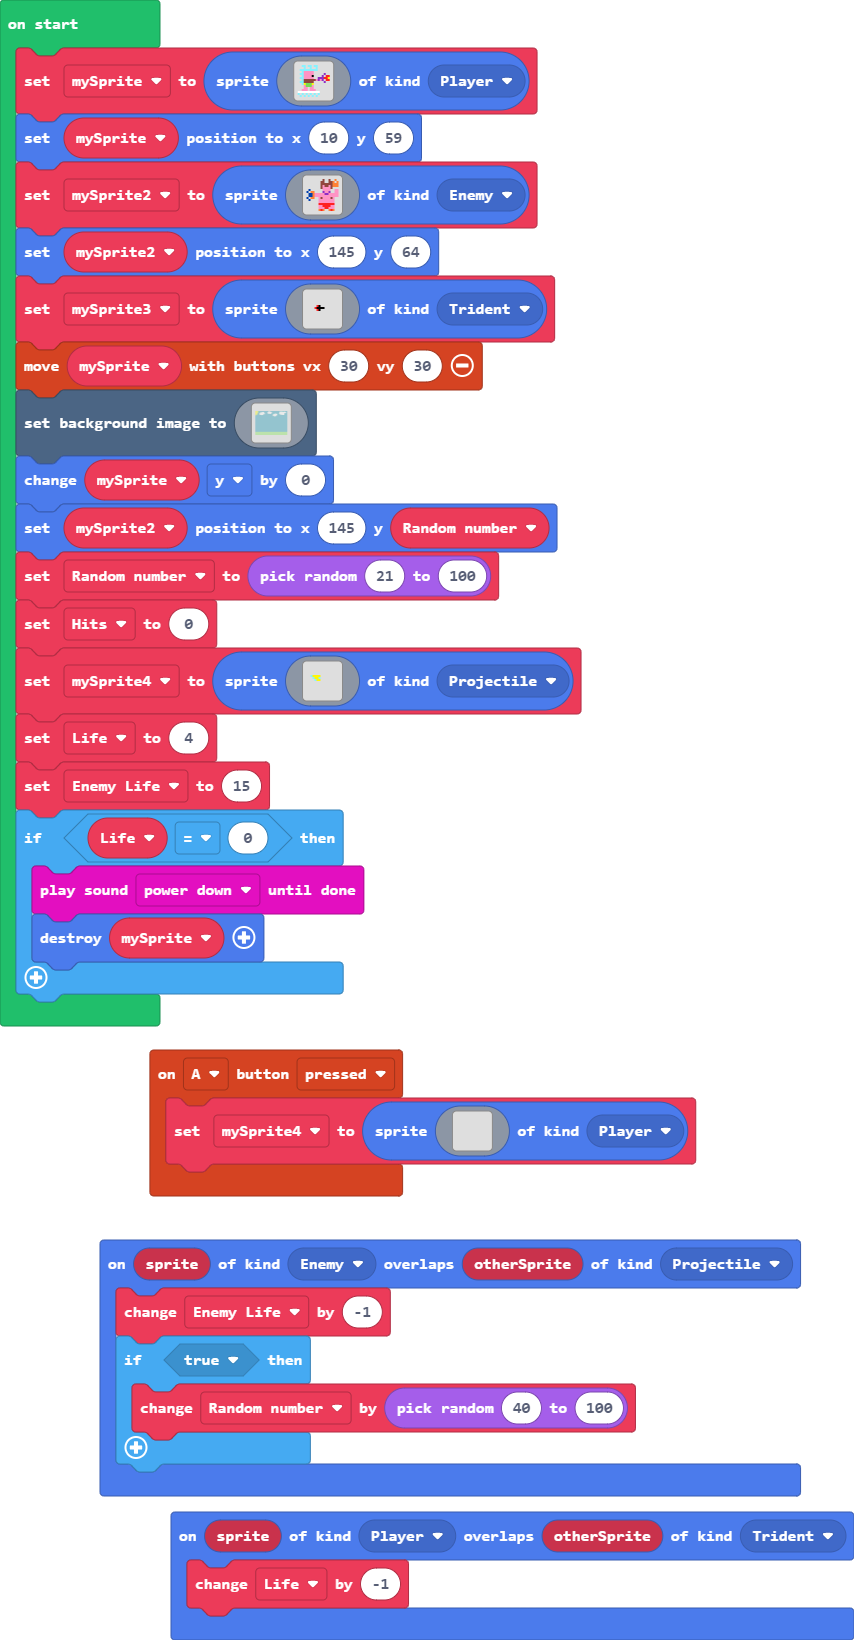
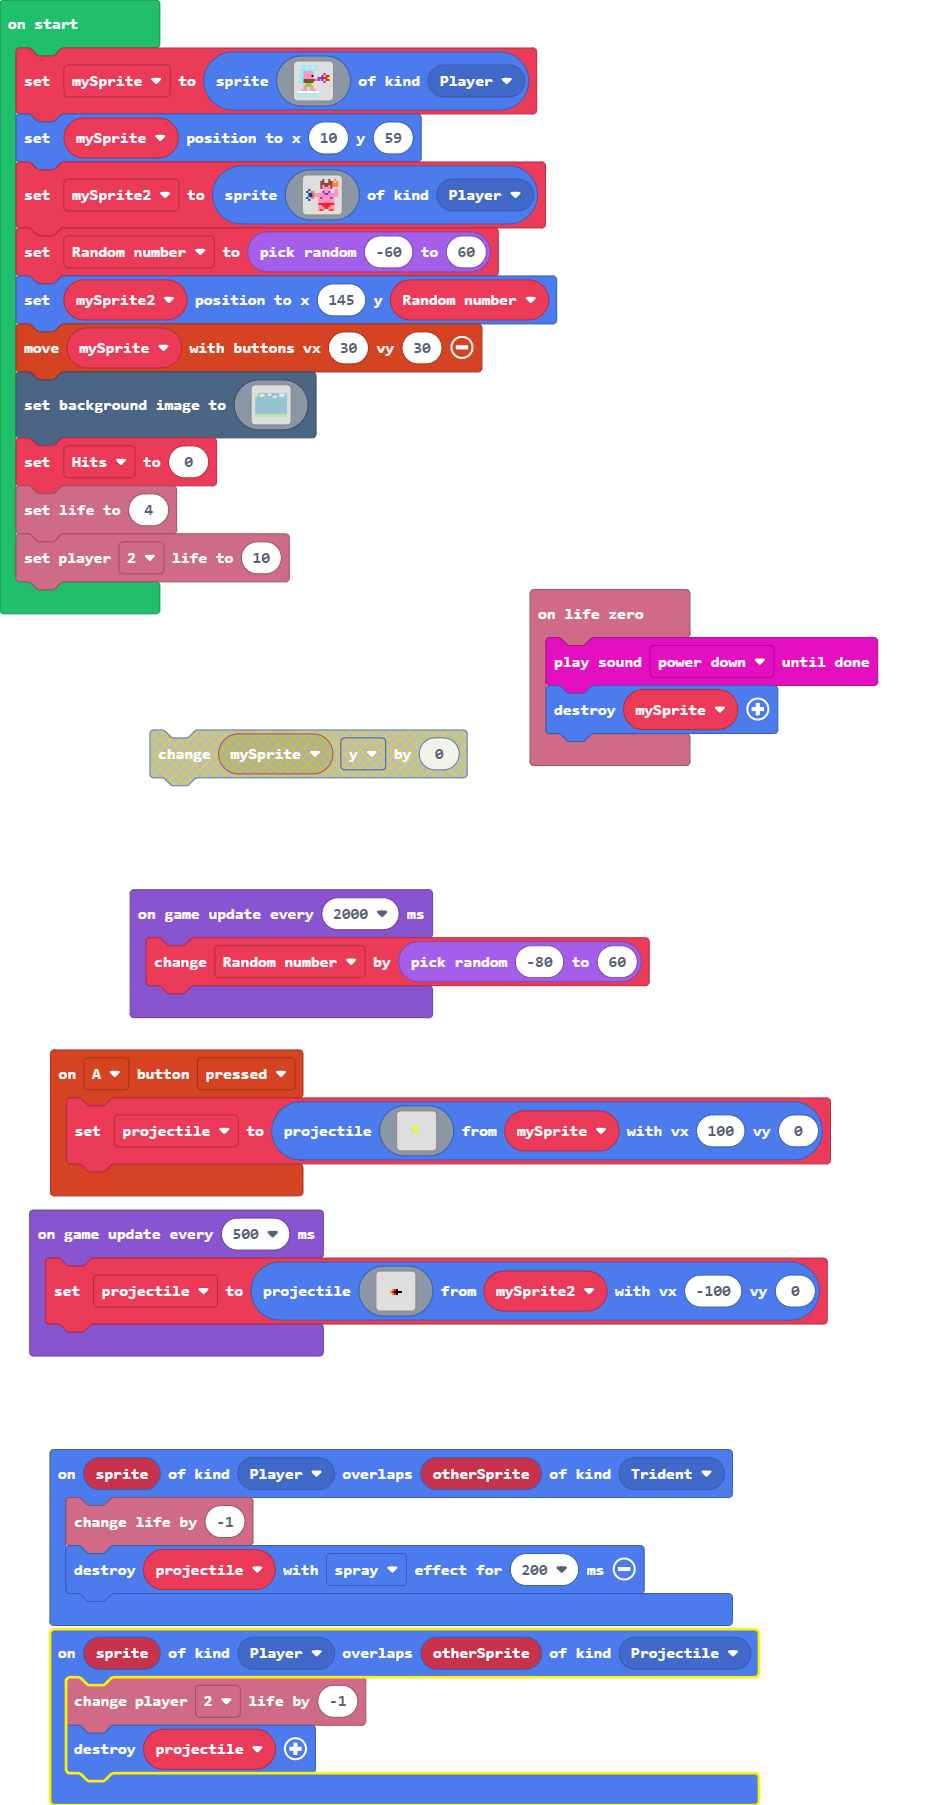
Update main.blocks, main.ts, images.g.jres, images.g.ts

diff --git a/main.ts b/main.ts
@@ -2,7 +2,16 @@ namespace SpriteKind {
     export const Trident = SpriteKind.create()
 }
 controller.A.onEvent(ControllerButtonEvent.Pressed, function () {
-    mySprite4 = sprites.create(img`
+    projectile = sprites.createProjectileFromSprite(img`
+        . . . . . . . . . . . . . . . . 
+        . . . . . . . . . . . . . . . . 
+        . . . . . . . . . . . . . . . . 
+        . . . . . . . . . . . . . . . . 
+        . . . . . . . . . . . . . . . . 
+        . . . . . . . . . . . . . . . . 
+        . . . . 9 5 5 5 5 . . . . . . . 
+        . . . . . 9 5 5 9 . . . . . . . 
+        . . . . . . 9 5 5 . . . . . . . 
         . . . . . . . . . . . . . . . . 
         . . . . . . . . . . . . . . . . 
         . . . . . . . . . . . . . . . . 
@@ -10,29 +19,23 @@ controller.A.onEvent(ControllerButtonEvent.Pressed, function () {
         . . . . . . . . . . . . . . . . 
         . . . . . . . . . . . . . . . . 
         . . . . . . . . . . . . . . . . 
-        . . . . . . . . . . . . . . . . 
-        . . . . . . . . . . . . . . . . 
-        . . . . . . . . . . . . . . . . 
-        . . . . . . . . . . . . . . . . 
-        . . . . . . . . . . . . . . . . 
-        . . . . . . . . . . . . . . . . 
-        . . . . . . . . . . . . . . . . 
-        . . . . . . . . . . . . . . . . 
-        . . . . . . . . . . . . . . . . 
-        `, SpriteKind.Player)
+        `, mySprite, 100, 0)
 })
 sprites.onOverlap(SpriteKind.Player, SpriteKind.Trident, function (sprite, otherSprite) {
-    Life += -1
+    info.changeLifeBy(-1)
+    projectile.destroy(effects.spray, 200)
 })
-sprites.onOverlap(SpriteKind.Enemy, SpriteKind.Projectile, function (sprite, otherSprite) {
-    Enemy_Life += -1
-    if (true) {
-        Random_number += randint(40, 100)
-    }
+sprites.onOverlap(SpriteKind.Player, SpriteKind.Projectile, function (sprite, otherSprite) {
+    info.player2.changeLifeBy(-1)
+    projectile.destroy()
 })
-let mySprite4: Sprite = null
-let Random_number = 0
-let mySprite = sprites.create(img`
+info.onLifeZero(function () {
+    music.powerDown.playUntilDone()
+    mySprite.destroy()
+})
+let projectile: Sprite = null
+let mySprite: Sprite = null
+mySprite = sprites.create(img`
     . . 9 9 . 9 9 . 9 9 . . . . . . 
     . . . 9 . . 9 . . 9 . . . . . . 
     . 9 9 9 9 9 9 9 9 9 . . . . . . 
@@ -68,26 +71,9 @@ let mySprite2 = sprites.create(img`
     . . . . . . 3 3 2 2 2 2 3 3 . . 
     . . . . . . 3 3 3 2 2 3 3 3 . . 
     . . . . . . 4 2 4 . . 4 2 4 . . 
-    `, SpriteKind.Enemy)
-mySprite2.setPosition(145, 64)
-let mySprite3 = sprites.create(img`
-    . . . . . . . . . . . . . . . . 
-    . . . . . . . . . . . . . . . . 
-    . . . . . . . . . . . . . . . . 
-    . . . . . . . . . . . . . . . . 
-    . . . . . . . . . . . . . . . . 
-    . . . . . . . . . . . . . . . . 
-    . . . . . 2 f . . . . . . . . . 
-    . . . . 2 f f f f . . . . . . . 
-    . . . . . 2 f . . . . . . . . . 
-    . . . . . . . . . . . . . . . . 
-    . . . . . . . . . . . . . . . . 
-    . . . . . . . . . . . . . . . . 
-    . . . . . . . . . . . . . . . . 
-    . . . . . . . . . . . . . . . . 
-    . . . . . . . . . . . . . . . . 
-    . . . . . . . . . . . . . . . . 
-    `, SpriteKind.Trident)
+    `, SpriteKind.Player)
+let Random_number = randint(-60, 60)
+mySprite2.setPosition(145, Random_number)
 controller.moveSprite(mySprite, 30, 30)
 scene.setBackgroundImage(img`
     5555555555555566666666666666666666666666666666666666666666666666666666666666666666666666666666666666666666666666666666666666666666666666666666666666666666666666
@@ -211,31 +197,29 @@ scene.setBackgroundImage(img`
     7777777777777777777777777777777777777777777777777777777777777777777777777777777777777777777777777777777777777777777777777777777777777777777777777777777777777777
     7777777777777777777777777777777777777777777777777777777777777777777777777777777777777777777777777777777777777777777777777777777777777777777777777777777777777777
     `)
-mySprite.y += 0
-mySprite2.setPosition(145, Random_number)
-Random_number = randint(21, 100)
 let Hits = 0
-mySprite4 = sprites.create(img`
-    . . . . . . . . . . . . . . . . 
-    . . . . . . . . . . . . . . . . 
-    . . . . . . . . . . . . . . . . 
-    . . . . . . . . . . . . . . . . 
-    . . . . . . . . . . . . . . . . 
-    . . 9 5 5 5 5 . . . . . . . . . 
-    . . . 9 5 5 9 . . . . . . . . . 
-    . . . . 9 5 5 . . . . . . . . . 
-    . . . . . . . . . . . . . . . . 
-    . . . . . . . . . . . . . . . . 
-    . . . . . . . . . . . . . . . . 
-    . . . . . . . . . . . . . . . . 
-    . . . . . . . . . . . . . . . . 
-    . . . . . . . . . . . . . . . . 
-    . . . . . . . . . . . . . . . . 
-    . . . . . . . . . . . . . . . . 
-    `, SpriteKind.Projectile)
-let Life = 4
-let Enemy_Life = 15
-if (Life == 0) {
-    music.powerDown.playUntilDone()
-    mySprite.destroy()
-}
+info.setLife(4)
+info.player2.setLife(10)
+game.onUpdateInterval(2000, function () {
+    Random_number += randint(-80, 60)
+})
+game.onUpdateInterval(500, function () {
+    projectile = sprites.createProjectileFromSprite(img`
+        . . . . . . . . . . . . . . . . 
+        . . . . . . . . . . . . . . . . 
+        . . . . . . . . . . . . . . . . 
+        . . . . . . . . . . . . . . . . 
+        . . . . . . . . . . . . . . . . 
+        . . . . . . . . . . . . . . . . 
+        . . . . . . . . . . . . . . . . 
+        . . . . . . 4 2 f . . . . . . . 
+        . . . . . 4 2 f f f f . . . . . 
+        . . . . . . 4 2 f . . . . . . . 
+        . . . . . . . . . . . . . . . . 
+        . . . . . . . . . . . . . . . . 
+        . . . . . . . . . . . . . . . . 
+        . . . . . . . . . . . . . . . . 
+        . . . . . . . . . . . . . . . . 
+        . . . . . . . . . . . . . . . . 
+        `, mySprite2, -100, 0)
+})

diff --git a/images.g.ts b/images.g.ts
@@ -39,24 +39,6 @@ namespace myImages {
 . . . . . . 3 3 3 2 2 3 3 3 . . 
 . . . . . . 4 2 4 . . 4 2 4 . . 
 `;
-            case "image3":return img`
-. . . . . . . . . . . . . . . . 
-. . . . . . . . . . . . . . . . 
-. . . . . . . . . . . . . . . . 
-. . . . . . . . . . . . . . . . 
-. . . . . . . . . . . . . . . . 
-. . . . . . . . . . . . . . . . 
-. . . . . 2 f . . . . . . . . . 
-. . . . 2 f f f f . . . . . . . 
-. . . . . 2 f . . . . . . . . . 
-. . . . . . . . . . . . . . . . 
-. . . . . . . . . . . . . . . . 
-. . . . . . . . . . . . . . . . 
-. . . . . . . . . . . . . . . . 
-. . . . . . . . . . . . . . . . 
-. . . . . . . . . . . . . . . . 
-. . . . . . . . . . . . . . . . 
-`;
             case "image4":return img`
 5555555555555566666666666666666666666666666666666666666666666666666666666666666666666666666666666666666666666666666666666666666666666666666666666666666666666666
 5555555555555565666666666666666666666666666666666666666666666666666666666666666666666666666666666666666666666666666666666666666666666666666666666666666666666666
@@ -179,16 +161,16 @@ namespace myImages {
 7777777777777777777777777777777777777777777777777777777777777777777777777777777777777777777777777777777777777777777777777777777777777777777777777777777777777777
 7777777777777777777777777777777777777777777777777777777777777777777777777777777777777777777777777777777777777777777777777777777777777777777777777777777777777777
 `;
-            case "image5":return img`
+            case "image7":return img`
 . . . . . . . . . . . . . . . . 
 . . . . . . . . . . . . . . . . 
 . . . . . . . . . . . . . . . . 
 . . . . . . . . . . . . . . . . 
 . . . . . . . . . . . . . . . . 
-. . 9 5 5 5 5 . . . . . . . . . 
-. . . 9 5 5 9 . . . . . . . . . 
-. . . . 9 5 5 . . . . . . . . . 
 . . . . . . . . . . . . . . . . 
+. . . . 9 5 5 5 5 . . . . . . . 
+. . . . . 9 5 5 9 . . . . . . . 
+. . . . . . 9 5 5 . . . . . . . 
 . . . . . . . . . . . . . . . . 
 . . . . . . . . . . . . . . . . 
 . . . . . . . . . . . . . . . . 
@@ -197,7 +179,7 @@ namespace myImages {
 . . . . . . . . . . . . . . . . 
 . . . . . . . . . . . . . . . . 
 `;
-            case "image6":return img`
+            case "image5":return img`
 . . . . . . . . . . . . . . . . 
 . . . . . . . . . . . . . . . . 
 . . . . . . . . . . . . . . . . 
@@ -205,9 +187,9 @@ namespace myImages {
 . . . . . . . . . . . . . . . . 
 . . . . . . . . . . . . . . . . 
 . . . . . . . . . . . . . . . . 
-. . . . . . . . . . . . . . . . 
-. . . . . . . . . . . . . . . . 
-. . . . . . . . . . . . . . . . 
+. . . . . . 4 2 f . . . . . . . 
+. . . . . 4 2 f f f f . . . . . 
+. . . . . . 4 2 f . . . . . . . 
 . . . . . . . . . . . . . . . . 
 . . . . . . . . . . . . . . . . 
 . . . . . . . . . . . . . . . . 
